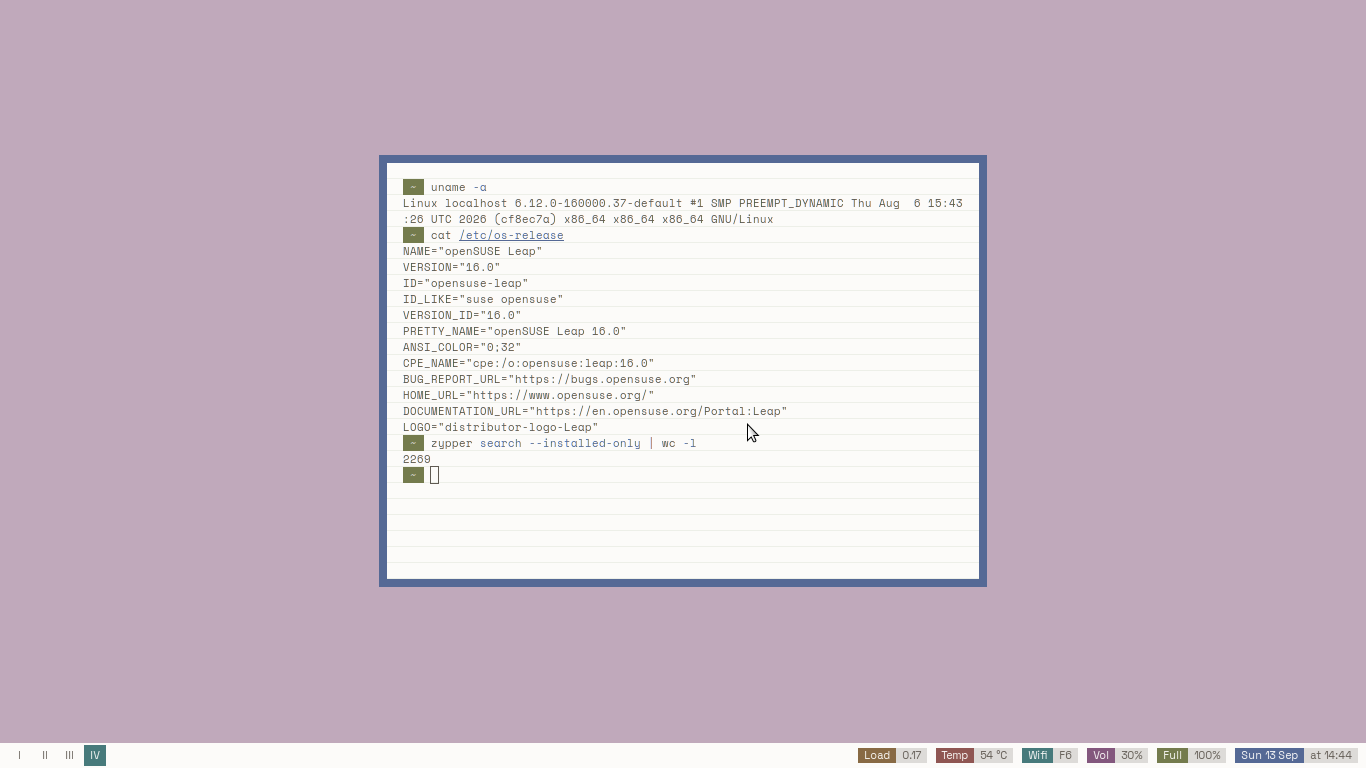
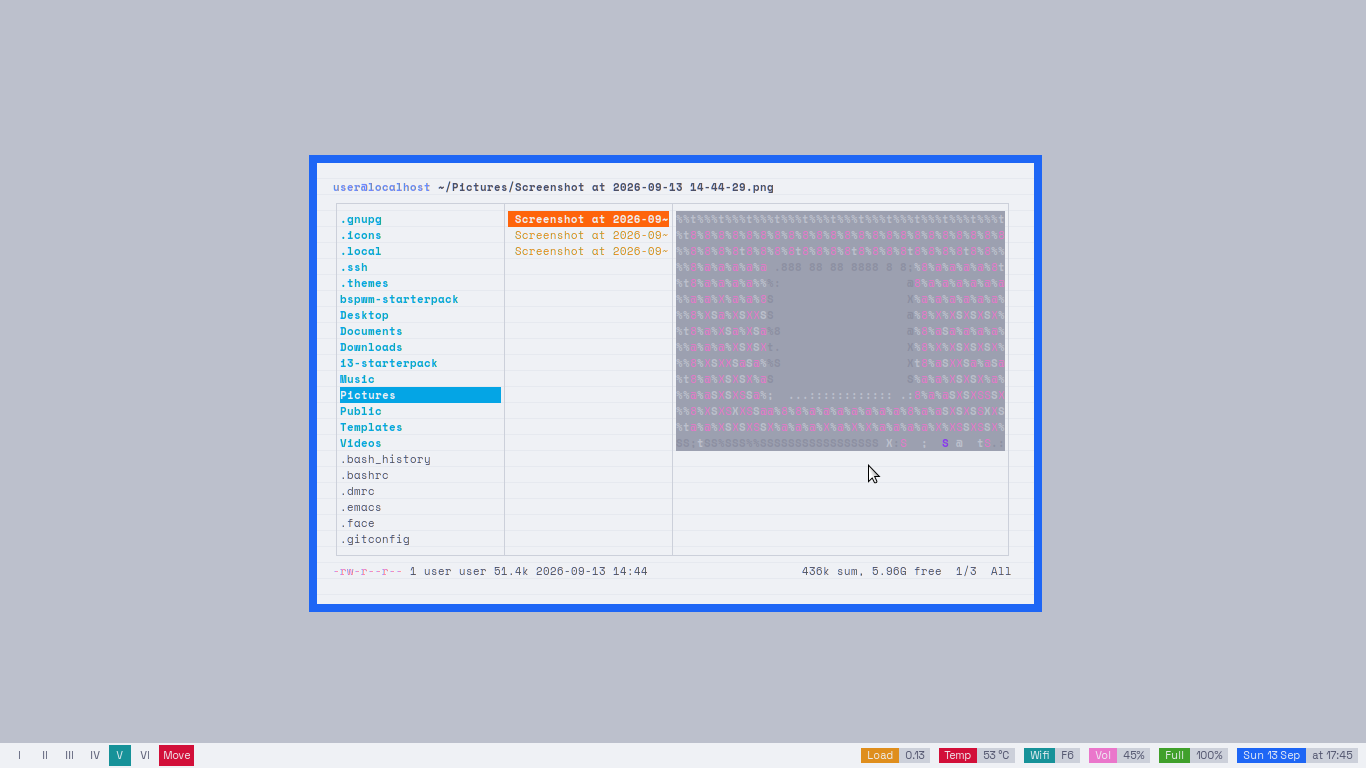
add catpuccin latte theme

Changed region(s): [[0.2152, 0.1875, 0.7687, 0.8125], [0.6149, 0.9688, 0.9839, 1.0], [0.0615, 0.9688, 0.1537, 1.0]]

diff --git a/README.md b/README.md
@@ -1,8 +1,8 @@
 ## Preview
-![floating](https://github.com/addy-dclxvi/i3-starterpack/blob/earlgrey/screenshots/floating.png) </br>
+![floating](https://github.com/addy-dclxvi/i3-starterpack/blob/latte/screenshots/floating.png) </br>
 **Floating**
 
-![tiling](https://github.com/addy-dclxvi/i3-starterpack/blob/earlgrey/screenshots/tiling.png) </br>
+![tiling](https://github.com/addy-dclxvi/i3-starterpack/blob/latte/screenshots/tiling.png) </br>
 **Tiling**
 
 Now I install i3wm on top of Mate and trying to use available Mate components like
@@ -14,4 +14,4 @@ Mate stores app settings in dconf that can be restored using
 I also change the GTK Fonts from Poppins to Space Grotesk,
 because Space Grotesk is a font designed to work with Space Mono, the font I use in the Terminal.
 
-The colorscheme is Earl Grey by June Kelly.
+The colorscheme is Catpuccin Latte by [Catpuccin Team](https://github.com/catppuccin).
